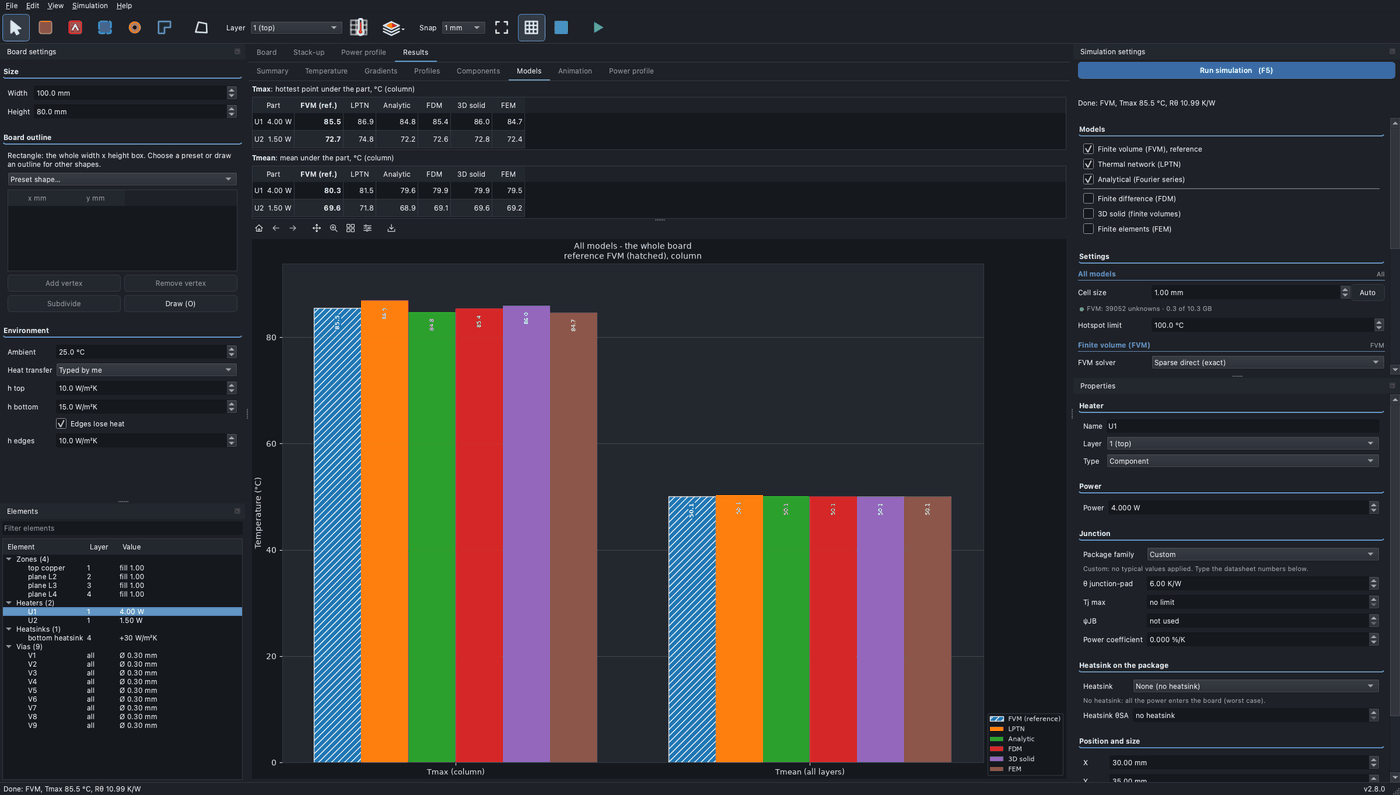
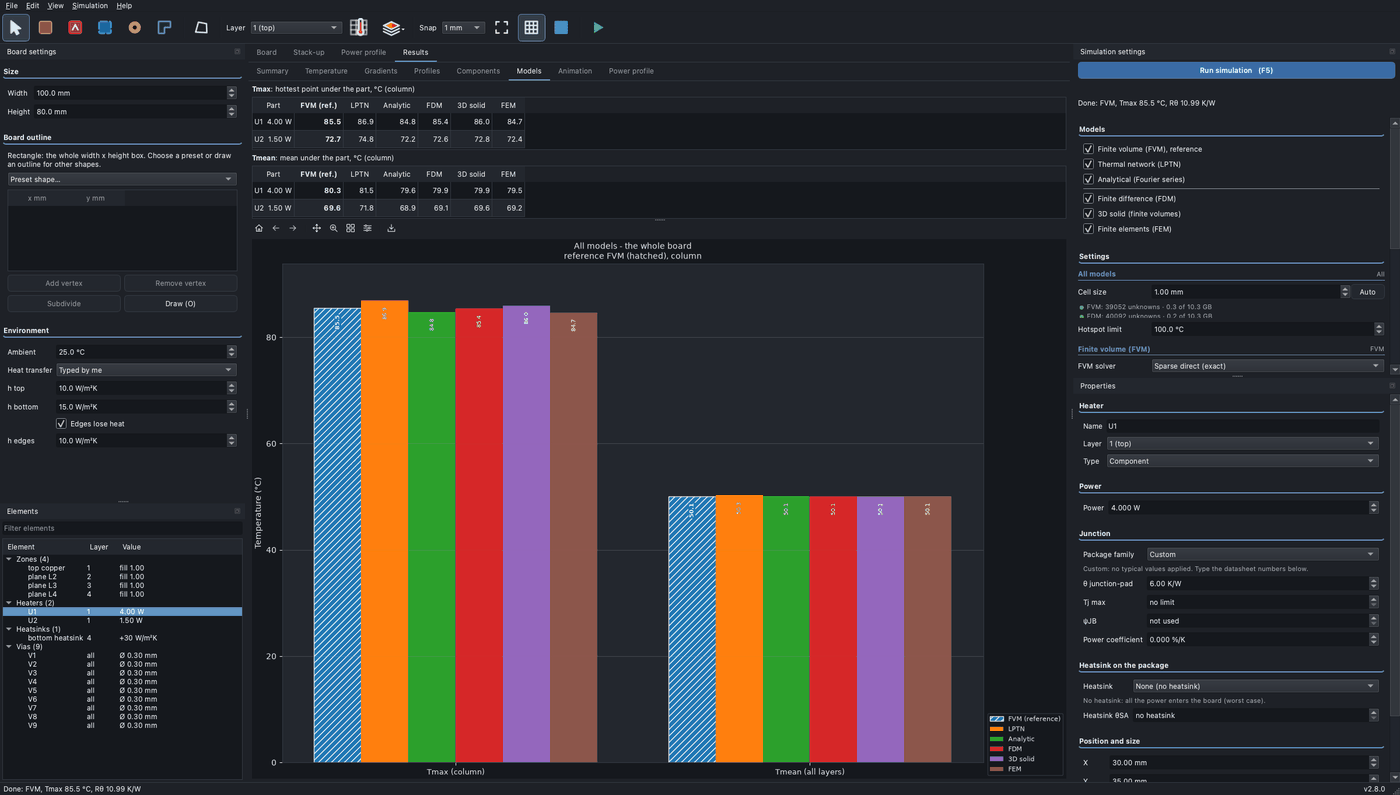
Review the Models tab: narrow pages, LPTN wording, stale pictures
Below about 1000 px the unwrapped table titles held the page wider than
its scroll area, which has no sideways bar, so the tables and their own
sideways bars were cut at the right. The titles now wrap and the area
asks for the height of its content at its real width; a new test fails
without the fix.

The tooltips, the guide and the docstring said the LPTN has a single
node per part; a part over a group of vias has two (core and rest,
theory 5.2). The maximum is worded as in the theory.

The report block also appears in the Summary page's text, so the two
Summary pictures were stale: regenerated. The Models picture now ticks
the six models in the Models box. The stress scenario asserts the 3D
solid and FEM columns. The parts table is computed once per report or
CSV. Column order kept in the program order (decision recorded).

Claude-Session: https://claude.ai/code/session_01XgeLDd5tWg6CEJL9TQpCpU

Changed region(s): [[0.7679, 0.3623, 1.0, 0.483]]

diff --git a/pcbthermal/help/index.html b/pcbthermal/help/index.html
@@ -264,7 +264,7 @@ No model has been compared with a measurement of a real board yet; the models ar
 <tr><td>Gradients</td><td>Magnitude of the temperature gradient (K/mm).</td></tr>
 <tr><td>Profiles</td><td>Temperature along a cut through the board for every model, with a <b>cut overlay</b>: a picture of the board (the real outline, the elements of the layer and the cut line) inset on the curves, opaque, in the corner with the fewest curve points under it and never over the hottest point, the upper left when it is as empty as the best (the legend goes to another corner). It shows what the maps show: the layer of the toolbar <b>Layer</b> box, the <b>Underlay</b> (None, Copper, Image), <b>Map opacity</b> and <b>Colour map</b> of the Display panel, and the temperature map of the reference model on top while the <b>Map</b> button (T) is on; the cut line is white with a black edge over copper or the map and amber on the plain board; cells off an outline are blank, and a LPTN or Analytic reference on an outline board shows the plain board (the map would be stretched). The <b>Cut overlay</b> box of the tab shows or hides it (kept for the session, not in the project; hide it if it covers a curve); the Display panel greys View and Contour here. The line is drawn at the cell row or column that is plotted (the nearest to the slider position) and the title quotes that position; the picture is part of the figure, so it is also in a saved PNG, and the command line plots draw it with the board and the map (above the curves when the figure is narrower than 5 in).</td></tr>
 <tr><td>Components</td><td>Per heater: power (and nominal power), mean and maximum board temperature, junction temperature, margin to the limit, power limit, top-path power; per zone; hotspots; the metal block. All values come from the reference model (the FVM when it runs, otherwise the first model that ran); the line above the tables and the chart title name it.</td></tr>
-<tr><td>Models</td><td>The models side by side. <b>Two tables</b>, one scroll area: <b>Tmax: hottest point under the part, °C (column)</b> and <b>Tmean: mean under the part, °C (column)</b>, one row per part and one column per model that ran, in the program order with the reference model first, in bold, headed <b>FVM (ref.)</b> (its short name). The cells hold plain values with one decimal and no colour; <b>hover a cell</b> for the value with two decimals and the difference from the reference (for example <i>FDM, max under U1 (column): 85.40 &deg;C, -0.07 K vs FVM (reference)</i>); <i>n/a</i> marks a model with no value there. The first column (part name and power) is at most 120 px wide, a longer name is cut and the tooltip has it whole; with many parts the two tables scroll together. Only the steady-state results contribute (the FEM and the 3D solid are steady only); a model that was not run has no column; with one model there is one column, and with no part the tables are empty and a note says so. The <b>LPTN</b> has one node per part: its mean is that node painted under the part, and its maximum is the network&rsquo;s own peak of the part, so read its column as a coarse model of the part, not as a map. Below the tables, behind a splitter you can drag, <b>one chart for the whole board</b>: two groups, <i>Tmax (column)</i> and <i>Tmean (all layers)</i>, one bar per model in the program colours; the reference is hatched and outlined and named in the legend and in the two-line title; the values are written upright on the bars and the axis starts at zero. The same numbers are in the text report (a <b>Parts by model</b> block with the differences in K) and in <code>parts_by_model.csv</code>, written with the other files when two or more models ran. Nothing here is a new calculation: the numbers are the part rows of each model, and the reference column equals the Components page.</td></tr>
+<tr><td>Models</td><td>The models side by side. <b>Two tables</b>, one scroll area: <b>Tmax: hottest point under the part, °C (column)</b> and <b>Tmean: mean under the part, °C (column)</b>, one row per part and one column per model that ran, in the program order with the reference model first, in bold, headed <b>FVM (ref.)</b> (its short name). The cells hold plain values with one decimal and no colour; <b>hover a cell</b> for the value with two decimals and the difference from the reference (for example <i>FDM, max under U1 (column): 85.40 &deg;C, -0.07 K vs FVM (reference)</i>); <i>n/a</i> marks a model with no value there. The first column (part name and power) is at most 120 px wide, a longer name is cut and the tooltip has it whole; with many parts the two tables scroll together, and when the page is too narrow for the columns (six models below a window of about 1200 px) each table scrolls sideways by itself. Only the steady-state results contribute (the FEM and the 3D solid are steady only); a model that was not run has no column; with one model there is one column, and with no part the tables are empty and a note says so. The <b>LPTN</b> has one node per part (two, the core and the rest, for a part over a group of vias): its mean is that node painted under the part, and its maximum is the network&rsquo;s own peak of the part (the node plus the peak term plus the rise the other parts give at its centre), so read its column as a coarse model of the part, not as a map. Below the tables, behind a splitter you can drag, <b>one chart for the whole board</b>: two groups, <i>Tmax (column)</i> and <i>Tmean (all layers)</i>, one bar per model in the program colours; the reference is hatched and outlined and named in the legend and in the two-line title; the values are written upright on the bars and the axis starts at zero. The same numbers are in the text report (a <b>Parts by model</b> block with the differences in K) and in <code>parts_by_model.csv</code>, written with the other files when two or more models ran. Nothing here is a new calculation: the numbers are the part rows of each model, and the reference column equals the Components page.</td></tr>
 <tr><td>Animation</td><td>Heating of the board in time after the power is switched on (see below).</td></tr>
 <tr><td>Power profile</td><td>Results of the time simulation when a heater has a profile.</td></tr>
 </table>

diff --git a/pcbthermal/api.py b/pcbthermal/api.py
@@ -368,8 +368,9 @@ class Simulation:
         @brief The temperature under every part in every model: the one definition behind the Models tab, the report block and the CSV file.
         @details Each value is that model's `analysis.heater_stats` row of the part (column read-out: the hottest point and the mean under the footprint, degC) computed with the
                  power the model dissipated (`power_used`, which differs from the typed power with a power temperature coefficient). The reference column therefore equals
-                 the Components table by construction. A value that is not finite is None ("n/a" in the views). The LPTN has one node per part: its part mean is that node painted under
-                 the part, and its part maximum the network's own peak of the part (`heater_peak`). No model is run here and no number of a model changes.
+                 the Components table by construction. A value that is not finite is None ("n/a" in the views). The LPTN has one node per part (two, the core and the rest, for a part over a group
+                 of vias, docs/theory.md 5.2): its part mean is that node painted under the part (the area mean of the two), and its part maximum the network's own peak of the
+                 part (`heater_peak`: the node plus the peak term plus the rise of the other parts at its centre, never below the drawn field; docs/theory.md 5). No model is run here and no number of a model changes.
         @return dict: "reference" (key), "models" (keys, reference first), "parts" (one dict per part: name, layer (1-based), power_w (reference model, W), power_by_model {model: W},
                 "t_max" and "t_mean" {model: degC or None}, "t_max_delta" and "t_mean_delta" {model: K from the reference, None for the reference itself or without a value}),
                 "board" ({model: (t_max, t_mean)}, the whole-board numbers of the Summary, used by the chart).
@@ -395,12 +396,13 @@ class Simulation:
             out["parts"].append(part)
         return out
 
-    def part_comparison_rows(self):
+    def part_comparison_rows(self, cmp=None):
         """!
         @brief The parts table as flat rows, two per part (Tmax, then Tmean): the form of the CSV file and of the text block.
+        @param cmp The result of `part_comparison()` when the caller already has it (None: computed here; every part of every model is read again, which on a large board is not free).
         @return List of dicts: part, layer, power_w (reference model, W), reading ("Tmax" or "Tmean", column), values {model: degC or None}, deltas {model: K from the reference or None}.
         """
-        cmp = self.part_comparison()
+        cmp = self.part_comparison() if cmp is None else cmp
         rows = []
         for part in cmp["parts"]:
             for reading, key in (("Tmax", "t_max"), ("Tmean", "t_mean")):
@@ -419,7 +421,7 @@ class Simulation:
             return []
         label = lambda m: RESULT_MODEL_LABELS.get(m, m)
         lines = [f"Parts by model (steady state, column read-out; hottest point and mean under each part, °C; difference from the reference {label(cmp['reference'])} in K):"]
-        for r in self.part_comparison_rows():
+        for r in self.part_comparison_rows(cmp):
             cells = []
             for m in models:
                 v, d = r["values"][m], r["deltas"][m]
@@ -439,7 +441,7 @@ class Simulation:
         with open(path, "w", newline="", encoding="utf-8") as fh:
             w = csv.writer(fh)
             w.writerow(["part", "layer", "power_w", "reading"] + [f"{m}_c" for m in models] + [f"{m}_minus_{models[0]}_k" for m in models[1:]])
-            rows = self.part_comparison_rows()
+            rows = self.part_comparison_rows(cmp)
             for r in rows:
                 w.writerow([r["part"], r["layer"], round(r["power_w"], 6), r["reading"]]
                            + ["" if r["values"][m] is None else round(r["values"][m], 4) for m in models]

diff --git a/pcbthermal/gui/results_view.py b/pcbthermal/gui/results_view.py
@@ -597,10 +597,15 @@ class ModelsTab(PlotTab):
         self.table_mean = self._parts_table()
         self.title_max = QLabel("<b>Tmax</b>: hottest point under the part, °C (column)")
         self.title_mean = QLabel("<b>Tmean</b>: mean under the part, °C (column)")
+        for title in (self.title_max, self.title_mean):
+            # Wrapped: an unwrapped title holds the page at its text width (about 280 px), and in a narrower centre the area (no sideways bar) would cut the tables
+            # and their own scroll bars at the right; wrapped, the tables take the width there is and scroll sideways by themselves
+            title.setWordWrap(True)
         self.title_max.setToolTip("Hottest point of the column read-out under the footprint of each part, in every model that ran. The reference model is the first column, in bold; "
                                   "hover a cell for the difference from it.")
         self.title_mean.setToolTip("Mean of the column read-out under the footprint of each part, in every model that ran. The reference model is the first column, in bold; "
-                                   "hover a cell for the difference from it. The LPTN has one node per part: its mean is that node painted under the part.")
+                                   "hover a cell for the difference from it. The LPTN has one node per part (two, the core and the rest, for a part over a group of vias): "
+                                   "its mean is that node painted under the part.")
         self.message = QLabel("")
         self.message.setWordWrap(True)
         self.message.setVisible(False)
@@ -692,8 +697,9 @@ class ModelsTab(PlotTab):
         if delta is not None:
             text += f", {delta:+.2f} K vs {model_label(ref)} (reference)"
         if model == "lumped":
-            text += ("." + (" The LPTN has one node per part: the part's mean is that node, painted under the part." if key == "t_mean" else
-                            " The LPTN maximum is the network's own peak of the part (its node plus the peak term and the other parts' share)."))
+            text += ("." + (" The LPTN has one node per part (two, the core and the rest, for a part over a group of vias): the part's mean is that node, "
+                            "painted under the part." if key == "t_mean" else
+                            " The LPTN maximum is the network's own peak of the part: its node plus the peak term plus the rise the other parts give at its centre."))
         return text
 
     def _fill_parts(self, sim):
@@ -763,7 +769,11 @@ class ModelsTab(PlotTab):
             if t.horizontalScrollBar().maximum() > 0:               # A table in a page too narrow for its columns keeps its own bar, and the height for it
                 h += t.horizontalScrollBar().sizeHint().height()
             t.setFixedHeight(h)
-        need = self._inner.sizeHint().height()
+        # The wrapped titles have a height for the width they get: ask for it at the width of the area (the plain size hint assumes a narrower title on two lines)
+        width = self.area.viewport().width()
+        need = self._inner.heightForWidth(width) if (self._inner.hasHeightForWidth() and width > 0) else -1
+        if need <= 0:
+            need = self._inner.sizeHint().height()
         self.area.setMinimumHeight(min(need, MODELS_TABLES_MAX_PX))
 
     def resizeEvent(self, e):

diff --git a/tests/test_models_part_table.py b/tests/test_models_part_table.py
@@ -58,7 +58,8 @@ def test_the_reference_column_equals_the_components_numbers_and_every_model_its_
 
 
 def test_the_lptn_part_mean_is_its_painted_node_and_its_max_is_the_network_peak(sim4):
-    # The LPTN paints one node under each part: the mean under the footprint is that node, the maximum is the network's own peak of the part (never below the node)
+    # The LPTN paints one node under each part (two when its footprint is cut into zones over a group of vias; both parts of the example board stay one node,
+    # arrays["zoned_heaters"]): the mean under the footprint is that node, the maximum is the network's own peak of the part (never below the node)
     part = sim4.part_comparison()["parts"][0]
     assert part["t_max"]["lumped"] >= part["t_mean"]["lumped"]
     assert part["t_max"]["lumped"] == pytest.approx(float(sim4.results["lumped"].arrays["heater_peak"][0]))
@@ -347,3 +348,16 @@ def test_one_model_one_column_lptn_reference_no_part_and_clear(qtbot, tmp_path):
     assert tab.message.isHidden() and tab.table_max.rowCount() == 2
     win.results.clear()
     assert tab.table_max.rowCount() == 0 and tab.table_max.columnCount() == 1 and tab.models_shown == []
+
+
+def test_a_window_narrower_than_1200_px_lets_the_tables_scroll_sideways_inside_the_page(qtbot, tmp_path, sim6):
+    # Below 1200 px the six columns no longer fit: each table must keep its own sideways bar inside the page (the area has none), never be cut at the right
+    for width in (1100, 900):
+        win = show(qtbot, tmp_path, sim6, size=(width, 800))
+        tab = win.results.compare
+        view = tab.area.viewport().width()
+        for t in (tab.table_max, tab.table_mean):
+            assert t.horizontalScrollBar().maximum() > 0, "six columns fit a narrow page?"
+            assert t.mapTo(tab.area.viewport(), t.rect().topRight()).x() < view, "a table is cut at the right of the page"
+            assert t.viewport().height() >= sum(t.rowHeight(r) for r in range(t.rowCount())), "the sideways bar covers a row"
+        win.close()

diff --git a/examples/make_screenshots.py b/examples/make_screenshots.py
@@ -109,10 +109,17 @@ def main(out_dir):
         win.results.tabs.setCurrentIndex(tab)
         shot(name)
     # The Models tab shows the six models side by side (the FEM and the 3D solid are off by default, so they are run for this picture only); the three-model run comes back after
-    sim_all = simulate(win.doc.problem, SolverOptions(cell_mm=1.0, models=("fvm", "lumped", "analytic", "fdm", "solid3d", "fem")))
+    six = ("fvm", "lumped", "analytic", "fdm", "solid3d", "fem")
+    sim_all = simulate(win.doc.problem, SolverOptions(cell_mm=1.0, models=six))
+    # The Models box ticks the six models of the picture (so the panel and the tab agree), before the result is shown so that it is not marked outdated
+    shown = [k for k, c in win.solver_panel.cb.items() if c.isChecked()]
+    for k, c in win.solver_panel.cb.items():
+        c.setChecked(k in six)
     win._on_done(sim_all)
     win.results.tabs.setCurrentWidget(win.results.compare)
     shot("results_models.png")
+    for k, c in win.solver_panel.cb.items():
+        c.setChecked(k in shown)
     win._on_done(sim)
 
     win.tabs.setCurrentIndex(TAB_RESULTS)

diff --git a/tests/test_gui_stress.py b/tests/test_gui_stress.py
@@ -1922,6 +1922,10 @@ def test_models_tab_parts_tables_with_one_three_and_six_models_clear_and_themes(
         qtbot.wait(50)
         ran = [m for m in tab.models_shown]
         assert ran and ran[0] == win.sim.reference.model and set(ran) <= set(models)      # a model the guard left out is simply absent
+        # every steady model that ran has its column, the 3D solid and the FEM included when they ran
+        assert set(ran) == {m for m, r in win.sim.results.items() if r.T is not None}
+        if models == MODELS_WITH_FEM:
+            assert "solid3d" in ran and ("fem" in ran) == ("fem" in win.sim.results)
         assert tab.table_max.columnCount() == 1 + len(ran) and tab.table_max.rowCount() == len(win.sim.problem.heaters)
         assert tab.table_max.horizontalScrollBar().maximum() == 0 and tab.chart_box.height() >= 280
         for _ in range(2):                                   # Both themes with the tables and the chart on screen

diff --git a/docs/versions.md b/docs/versions.md
@@ -15,7 +15,7 @@ What was implemented in every version (with the module where it lives and how it
 
 ## Unreleased (2.9.0 work in progress)
 
-* **The Models tab: the temperature under every part in every model** (`feature/models-part-table`, item e19 of `releases/2.9.0/PLAN.md`, final design decided by the maintainer; display, report and CSV only, no model number moves, frozen numbers unchanged): `api.Simulation.part_models` (steady results with a field, the reference first, then the order of `results.MODEL_LABELS` through the new `results.model_order`), `part_comparison` (the one definition: per part and model the `analysis.heater_stats` Tmax and Tmean of the column read-out with that model's `power_used`, the difference from the reference, the whole-board numbers; a non-finite value is `None`, `n/a` in the views), `part_comparison_rows`, `part_comparison_lines` (the *Parts by model* block of `report()`, only with a part and two or more models) and `write_part_comparison_csv` (`parts_by_model.csv` in `save()`); `plots.draw_comparison(fig, results, reference)` is the new all-model chart (one bar per model, `results.model_color`, reference hatched with an explicit hatch colour, upright labels, two-line title, legend `outside right lower`); `gui/results_view.py` `ModelsTab(PlotTab)` (two `QTableWidget` in one `QScrollArea`, equal column widths in both, first column at most `MODELS_FIRST_COLUMN_MAX_PX` = 120 px elided with the name in the tooltip, a splitter above the chart box of at least `MODELS_CHART_MIN_PX` = 280 px, the tables area up to `MODELS_TABLES_MAX_PX` = 300 px before they scroll together). Tests: `tests/test_models_part_table.py` (rows per model, reference column equal to `heater_rows` and to each model's own `heater_stats`, n/a, `power_used` per model with a power coefficient, one model, the LPTN as reference, no part, report block and CSV, the chart, the tables, the 1200 x 800 layout with a mutation proof that the layout check can fail), `tests/test_gui_stress.py::test_models_tab_parts_tables_with_one_three_and_six_models_clear_and_themes`, `tests/test_help.py`, `tests/test_tooltips.py`; screenshot `docs/images/results_models.png` (`examples/make_screenshots.py`).
+* **The Models tab: the temperature under every part in every model** (`feature/models-part-table`, item e19 of `releases/2.9.0/PLAN.md`, final design decided by the maintainer; display, report and CSV only, no model number moves, frozen numbers unchanged): `api.Simulation.part_models` (steady results with a field, the reference first, then the order of `results.MODEL_LABELS` through the new `results.model_order`), `part_comparison` (the one definition: per part and model the `analysis.heater_stats` Tmax and Tmean of the column read-out with that model's `power_used`, the difference from the reference, the whole-board numbers; a non-finite value is `None`, `n/a` in the views), `part_comparison_rows`, `part_comparison_lines` (the *Parts by model* block of `report()`, only with a part and two or more models) and `write_part_comparison_csv` (`parts_by_model.csv` in `save()`); `plots.draw_comparison(fig, results, reference)` is the new all-model chart (one bar per model, `results.model_color`, reference hatched with an explicit hatch colour, upright labels, two-line title, legend `outside right lower`); `gui/results_view.py` `ModelsTab(PlotTab)` (two `QTableWidget` in one `QScrollArea`, equal column widths in both, first column at most `MODELS_FIRST_COLUMN_MAX_PX` = 120 px elided with the name in the tooltip, a splitter above the chart box of at least `MODELS_CHART_MIN_PX` = 280 px, the tables area up to `MODELS_TABLES_MAX_PX` = 300 px before they scroll together). Tests: `tests/test_models_part_table.py` (rows per model, reference column equal to `heater_rows` and to each model's own `heater_stats`, n/a, `power_used` per model with a power coefficient, one model, the LPTN as reference, no part, report block and CSV, the chart, the tables, the 1200 x 800 layout with a mutation proof that the layout check can fail), `tests/test_gui_stress.py::test_models_tab_parts_tables_with_one_three_and_six_models_clear_and_themes`, `tests/test_help.py`, `tests/test_tooltips.py`; screenshot `docs/images/results_models.png` (`examples/make_screenshots.py`, which now ticks the six models in the Models box for that picture). Reviewed: the tab matched the design and every part value equals each model's own `heater_stats` (re-derived independently for the FVM, the FDM, the 3D solid and the LPTN peak); the review found that below about 1000 px the unwrapped table titles held the page wider than the scroll area and cut the tables and their own sideways bars at the right (fixed by wrapping the titles and fitting the area with the height for its width; `test_a_window_narrower_than_1200_px_lets_the_tables_scroll_sideways_inside_the_page` fails without the fix), corrected the LPTN wording (a part over a group of vias has two nodes, core and rest), made the stress scenario assert the 3D solid and the FEM columns, and regenerated `results_summary.png` and `results_summary_imported.png`, whose report text now carries the *Parts by model* block.
 
 * **The reference model is named on the Components page** (`fix/results-name-the-model`, item e18 of `releases/2.9.0/PLAN.md`, option B of the maintainer; display and text only, no number moves, frozen numbers unchanged): `gui/results_view.py` (`ResultsView.reference_line`, an `ElidedLabel` of one line styled as a hint, first widget of the tables pane, hidden before a run and after `clear()`; `_name_reference` writes the line, its tooltip and the tooltip of the four tables; the chart title has a second line `Reference model: <short name>`; `setStretchFactor(1, 1)` on the splitter, no minimum height), `plots.py` (`_legend_outside(loc=...)`, used with `outside right lower` only by `draw_bars`, so the Models chart is unchanged), `gui/main_window.py` (the line under Run reads `Done: <short name>, Tmax ...`, keeping the `Done:` prefix of `FINAL_RUN_STATES`), `api.py` (`reference_model`, the model key, in `summary.json`), the Components row of `help/index.html`. Tests: `tests/test_results_name_model.py` (hidden before a run, two-line title, 1200 x 800 without a scroll bar, chart at least 180 px, dock line and status bar for FDM, FVM and 3D solid, summary.json key), a stress scenario in `tests/test_gui_stress.py`, the words of `tests/test_help.py`. The screenshots of `docs/images/` and their copies in `pcbthermal/help/` were regenerated with `examples/make_screenshots.py` (every full-window shot taken after a run has a new status text). Reviewed: the first 1200 x 800 test looked for a scroll bar on the Components page, which is never a scroll area (the scroll area is the one of the main window around the Results tab), and its hidden-line checks used `isVisible` on a page that was not shown, so neither could fail; both now check the right widget (`isHidden`, the main window's scroll area; a line of 400 px makes the scroll-bar check fail, as it should). A reference without a field (`ref.T is None`, no table filled) now hides the line instead of leaving the previous run's model on it. Measured at 1200 x 800 with the example board: chart 221 px (245 before the line), no page scroll bar. Limits recorded, not changed: in a window of 900 x 600 the chart pane is 21 px (68 before; the splitter's stretch factor gives a taller window's extra height to the chart, and a shorter window takes it from the chart; drag the splitter); a chart narrower than about 450 px clips the left of the title's first line and squeezes the axes beside the legend, as before this branch.
 

diff --git a/CHANGELOG.md b/CHANGELOG.md
@@ -11,7 +11,7 @@ MAJOR for incompatible changes, MINOR for new features, PATCH for fixes. Release
 
 ### Added
 
-- **The Models tab shows the temperature under every part in every model** (`feature/models-part-table`, item e19; display, report and CSV only: no model number moves, frozen numbers unchanged): two stacked tables in one scroll area, *Tmax: hottest point under the part, °C (column)* and *Tmean: mean under the part, °C (column)*, one row per part and one column per model that ran (the program order, the reference model first, in bold, headed `FVM (ref.)`), plain values with one decimal and no colour; the difference from the reference is in the tooltip of each cell (for example `FDM, max under U1 (column): 85.40 °C, -0.07 K vs FVM (reference)`), `n/a` where a model has no value, and the LPTN tooltip says that a part's mean is its single network node painted under the part. The chart below (behind a splitter, at least 280 px with its toolbar) is the whole board in every model: groups *Tmax (column)* and *Tmean (all layers)*, one bar per model in its own colour, the reference hatched, outlined and named in the legend and in a two-line title, the values upright on the bars, the axis from zero. One API function, `Simulation.part_comparison()`, builds the numbers for the window, the report (a *Parts by model* block with the differences in K) and a new `parts_by_model.csv` written by `Simulation.save` when two or more models ran. Components stays on the reference model.
+- **The Models tab shows the temperature under every part in every model** (`feature/models-part-table`, item e19; display, report and CSV only: no model number moves, frozen numbers unchanged): two stacked tables in one scroll area, *Tmax: hottest point under the part, °C (column)* and *Tmean: mean under the part, °C (column)*, one row per part and one column per model that ran (the program order, the reference model first, in bold, headed `FVM (ref.)`), plain values with one decimal and no colour; the difference from the reference is in the tooltip of each cell (for example `FDM, max under U1 (column): 85.40 °C, -0.07 K vs FVM (reference)`), `n/a` where a model has no value, and the LPTN tooltips say that a part's mean is its network node painted under the part (two nodes, core and rest, for a part over a group of vias) and its maximum the network's own peak of the part. Below 1200 px the tables scroll sideways by themselves inside the page. The chart below (behind a splitter, at least 280 px with its toolbar) is the whole board in every model: groups *Tmax (column)* and *Tmean (all layers)*, one bar per model in its own colour, the reference hatched, outlined and named in the legend and in a two-line title, the values upright on the bars, the axis from zero. One API function, `Simulation.part_comparison()`, builds the numbers for the window, the report (a *Parts by model* block with the differences in K) and a new `parts_by_model.csv` written by `Simulation.save` when two or more models ran (the Summary page's report text carries the block too; its screenshots were regenerated). Components stays on the reference model.
 
 - **Setting "Summary table in the report text"** (`feature/summary-table-setting`; display and text only, no number moves, frozen numbers unchanged): Preferences, page *Results*, key `results.summary_table_in_report`, shipped off (a setting of this machine, not saved in project files; a user file without the key reads as off). Off is the behaviour of 2.8.0: the models table is only in its own widget on the Summary page and the report text under it omits it. On: the text also carries the aligned table. The report saved by File - Export, the `report.txt` of the command line and the Markdown report always carry the table. Saving Preferences (Save, Reset to shipped or Import) rewrites the text of the result already shown; only a JSON `true` turns it on.
 

diff --git a/docs/decisions-log.md b/docs/decisions-log.md
@@ -4,7 +4,7 @@ The record of the decisions of PCB Thermal Lab, newest first, with the reason. I
 
 ## Entries
 
-- **The Models tab compares the models part by part: two tables and one board chart (final design)** (maintainer's decision after the reviewer's analysis and three mock-ups, `feature/models-part-table`, item e19): Components stays on the reference model (so its warnings, margins and the report keep agreeing); the Models tab gets two stacked tables (Tmax under the part, Tmean under the part, column read-out), one row per part and no whole-board row, one column per model in the program order with the reference first and in bold, plain values and no colour (the difference from the reference only in the tooltip, so the eye is not led to read a coarse model's difference as an error), and one chart for the whole board with all models as bars. One API function builds the numbers for the window, the report and a CSV file, so they never differ. The order of the columns is that of `results.MODEL_LABELS` (FVM, LPTN, Analytic, FDM, 3D solid, FEM), the order of the Models box; the first mock-ups showed FVM, FDM, LPTN, Analytic, FEM, 3D solid, which was the mock-up's own list. Moves no number.
+- **The Models tab compares the models part by part: two tables and one board chart (final design)** (maintainer's decision after the reviewer's analysis and three mock-ups, `feature/models-part-table`, item e19): Components stays on the reference model (so its warnings, margins and the report keep agreeing); the Models tab gets two stacked tables (Tmax under the part, Tmean under the part, column read-out), one row per part and no whole-board row, one column per model in the program order with the reference first and in bold, plain values and no colour (the difference from the reference only in the tooltip, so the eye is not led to read a coarse model's difference as an error), and one chart for the whole board with all models as bars. One API function builds the numbers for the window, the report and a CSV file, so they never differ. The order of the columns is that of `results.MODEL_LABELS` (FVM, LPTN, Analytic, FDM, 3D solid, FEM), the order of the Models box; the first mock-ups showed FVM, FDM, LPTN, Analytic, FEM, 3D solid, which was the mock-up's own list. The reviewer kept the program order (delegated choice): the reader meets the same order in the Models box, the Summary table, the chart legend and the columns, and the colours stay fixed per model; grouping the 3D solvers next to the FVM would help only the cross-check reading and would make this tab the only place with another order. Moves no number.
 
 - **The reference model is named on the Components page, the chart title, the status line and summary.json (option B)** (maintainer's approval of option B, reviewer's UI specification, 2026-11-19, `fix/results-name-the-model`, item e18): the hint line is an `ElidedLabel` of one line in the tables pane (it adds no fixed height, so no page scroll bar at 1200 x 800), the chart title has the model on a second line and the legend moves to the lower right, the status text is `Done: <short name>, Tmax ...` so the `Done:` prefix that the status bar matches is kept (`FINAL_RUN_STATES` untouched), summary.json has `reference_model` (the key). The tab title is not changed. Display and text only; no number moves.
 
